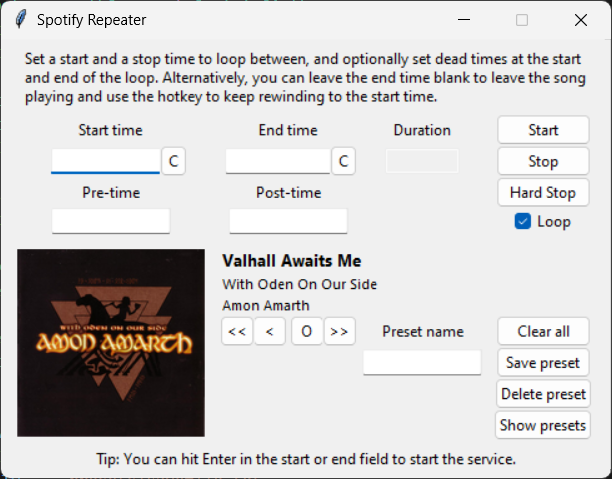
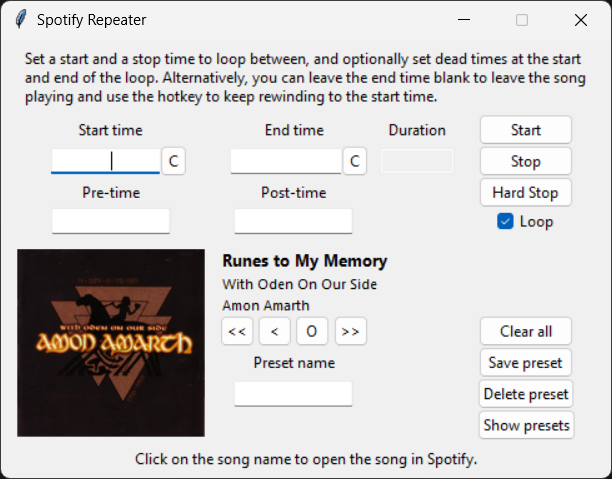
Added more information to readme

diff --git a/README.md b/README.md
@@ -1,13 +1,19 @@
-# Requires Spotify Premium!
+> [!WARNING]
+> Requires Spotify Premium due to restrictions on the Spotify API.
+> As Spotify has placed heavy restrictions on their quota extension requests, you'll have to either host your own app on developer.spotify.com (FREE and easy to do) or send me a mail containing the e-mail address of your spotify account, so that I can give you access.
+> You can reach me at nikolaisp3@gmail.com
+
 This is a GUI to set and repeat specific sections of a song in Spotify, e.g. to make it easier to learn a specific section on an instrument.
 
 ![GUI](https://github.com/vermilion00/spotify-repeater/blob/main/images/gui.png)
 
 Simply set a start and an end time for the section, and optionally a pre-time (to give you time to get ready to play the section) and a post-time (to give you a breather before the section restarts). You can also press the buttons next to the start time and end time entry fields to copy the currently playing Spotify timestamps.
-You can also save and recall your sections by saving them as presets.
+Saving and recalling your sections by saving them as presets is also possible.
 
 ![GUI_with_presets](https://github.com/vermilion00/spotify-repeater/blob/main/images/gui_with_presets.png)
 
 This uses my library [string_to_time](https://github.com/vermilion00/py-stringtotime) for the input. Accepted formats are hh:mm:ss.xxx and \_\_h \_\_m \_\_s \_\_\_ms, with and without spaces.
 
-
+## Known issues
+Opening the app without having Spotify playing can occasionally cause the song information updates to fail. Restarting fixes the issue.
+The song information occasionally stops updating. Restarting fixes the issue.
